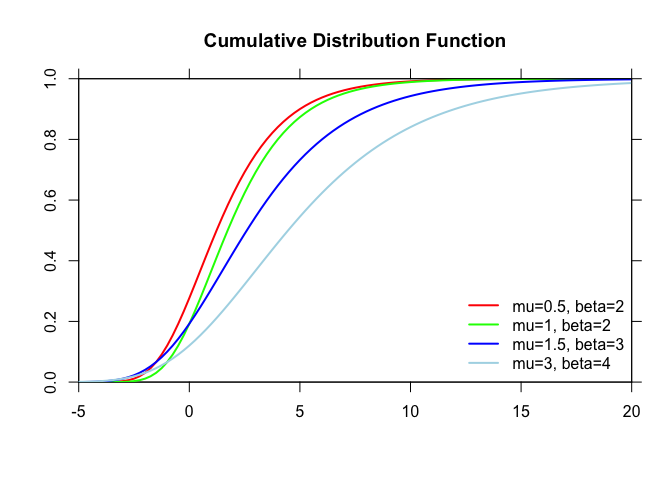
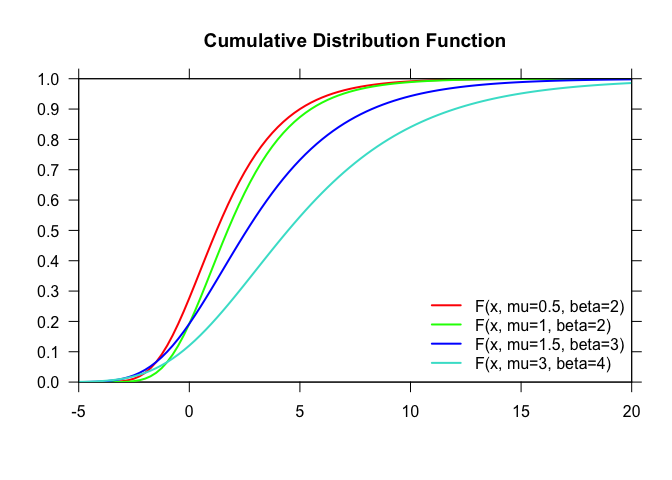
new: corrected some typos + few text lines

diff --git a/README.md b/README.md
@@ -744,30 +744,32 @@ climograph_data |>
 > to `theme()`, this line is currently not used to style the figures
 > with a fancy font.
 
-### Example *Rare Events* - Diggging into *Extreme Value Theory*
+## Example *Rare Events* - Diggging into *Extreme Value Theory*
 
 Some days ago, I read on <https://stackoverflow.com/questions/tagged/r>
-about the *Gompertz distribution* and later that on that evening about
-*extreme value theory*, in particular about *generalized extreme value
-distribution*. For some reason I decided to mimic Wikipedia’s
-*cumulative probability distribution plot* of the *Gumpel distribution*,
-see [`see`](https://en.wikipedia.org/wiki/Gumbel_distribution). Here is
-the plot generating code I came up with:
+about the *Gompertz* distribution and later that day about *extreme
+value theory*, in particular about the *generalized extreme value
+distribution*. For some reason, I decided to mimic the *cumulative
+probability distribution plot* given in the Wikipedia article [*Gumpel
+distribution*](https://en.wikipedia.org/wiki/Gumbel_distribution). Here
+is the plot generating code I came up with.
 
 ``` r
-## Gumpel 
+# Gumpel, cumulative distribution function (cdf) 
 dgumpel <- function(x, mu, beta) {
   # mu = location; beta = scale 
   stopifnot(beta > 0L)
   exp( - exp(- (x - mu) / beta) )
 }
 
-colours <- c("red", "green", "blue", "lightblue")
+# define the colour scheme
+colours <- c("red", "green", "blue", "turquoise")
 
+# set of parameter values
 param_combinations <- data.frame(mu = c(.5, 1L, 1.5, 3L),
                                  beta = c(2L, 2L, 3L, 4L)
                                  )
-
+# invisble() prevents a cluttered console 
 invisible(x = 
             lapply(X = 1L:nrow(param_combinations), 
                    FUN = \(j) with(
@@ -778,26 +780,32 @@ invisible(x =
                                   ylim = c(0L:1L), 
                                   add = j!=1L, 
                                   lwd = 2L, 
-                                  xlab = "", ylab = "", 
+                                  xlab = "", ylab = "", yaxt = "n",
                                   main = substitute(paste(bold("Cumulative Distribution Function"))),
-                                  # https://stackoverflow.com/questions/12300622/remove-spacing-around-plotting-area-in-r
+                                  # reduce box margins around limits 
                                   xaxs = "i", yaxs  ="i")
                      )
                    )
           )
-axis(side = 3, labels = FALSE); axis(side = 4, labels = FALSE)
+axis(side = 2L, at = seq(0L, 1L, by = .1), las = 2)
+axis(side = 3L, labels = FALSE); axis(side = 4L, at = seq(0L, 1L, by = .1), labels = FALSE)
 legend(x = "bottomright", 
        legend = unlist(lapply(X = 1L:nrow(param_combinations), FUN = \(j) 
-                              paste0("mu=", param_combinations[j, "mu"], 
-                                     ", beta=", param_combinations[j, "beta"]))),
+                              paste0("F(x, mu=", param_combinations[j, "mu"],
+                                     ", beta=", param_combinations[j, "beta"], ")")
+                              )
+                       ),
        col = colours, lwd = 2L, bty = "n")
 ```
 
 <img src="man/figures/unnamed-chunk-8-1.png" style="display: block; margin: auto;" />
-TODO: ADD TEXT In the application paragraph of the mentioned Wikipedia
-article an example concerning maximum one-day October rainfalls is
-given. TODO: ADD TEXT AND MOTIVATION Get data for *annual maximum
-one-day rainfall (amodrf)* :
+
+In the application paragraph of the mentioned Wikipedia article an
+example is given which deals with maximum one-day October rainfall.
+Based on maximum likelihood estimation of parameters a distribution
+fitting is performed. Based on *annual maximum one-day rainfall
+(amodrf)* values, we redo the fitting process. Extracting the relevant
+data:
 
 ``` r
 amodr_data <-
@@ -812,7 +820,8 @@ amodr_data <-
   na.omit()
 ```
 
-You may want to copy the data to clipboard:
+We get $29$ records, one for each year in $1995-2023$. You may want to
+copy the data to clipboard.
 
 ``` r
 data <- structure(
@@ -830,7 +839,12 @@ data <- structure(
   class = "data.frame")
 ```
 
-TODO: ADD TEXT
+First, we calculate and plot the *empirical cumulative distribution
+function* (ecdf), a step function by its very definition. Second, we use
+`EnvStats::eevd()` to execute a *maximum likelihood estimation* (MLE) of
+the parameters, see the help page for details. We, then, add the
+*estimated cumulative distribution function* to the plot. Finally, we
+extend by $95%$-confidence bands.
 
 ``` r
 # annual maximum one-day rainfall
@@ -904,10 +918,11 @@ invisible(x = lapply( # prevents cluttered console
 
 <img src="man/figures/unnamed-chunk-11-3.png" style="display: block; margin: auto;" />
 
-TODO: ADD TEXT There exist several concepts to visually compare an
-*empirical cumulative distribution function* with it’s theoretical
-counterpart. In the following, we create a so-called *P-P plot* (p $=$
-probability):
+**I will add all statistical details with a future version.**
+
+There exist several concepts to visually compare an *empirical
+cumulative distribution function* with it’s theoretical counterpart. In
+the following, we create a so-called *P-P plot* (p $=$ probability):
 
 ``` r
 plot(y = ecdf(amodr_data$amodr)(amodr_data$amodr),
@@ -922,6 +937,7 @@ abline(a = 0, b = 1)
 
 <img src="man/figures/unnamed-chunk-12-1.png" style="display: block; margin: auto;" />
 
-Application/interpretation is vague.
+Application/interpretation of *P-P plots* is vague, especially if theory
+is compared to real data.
 
 More to come. Come back later.
